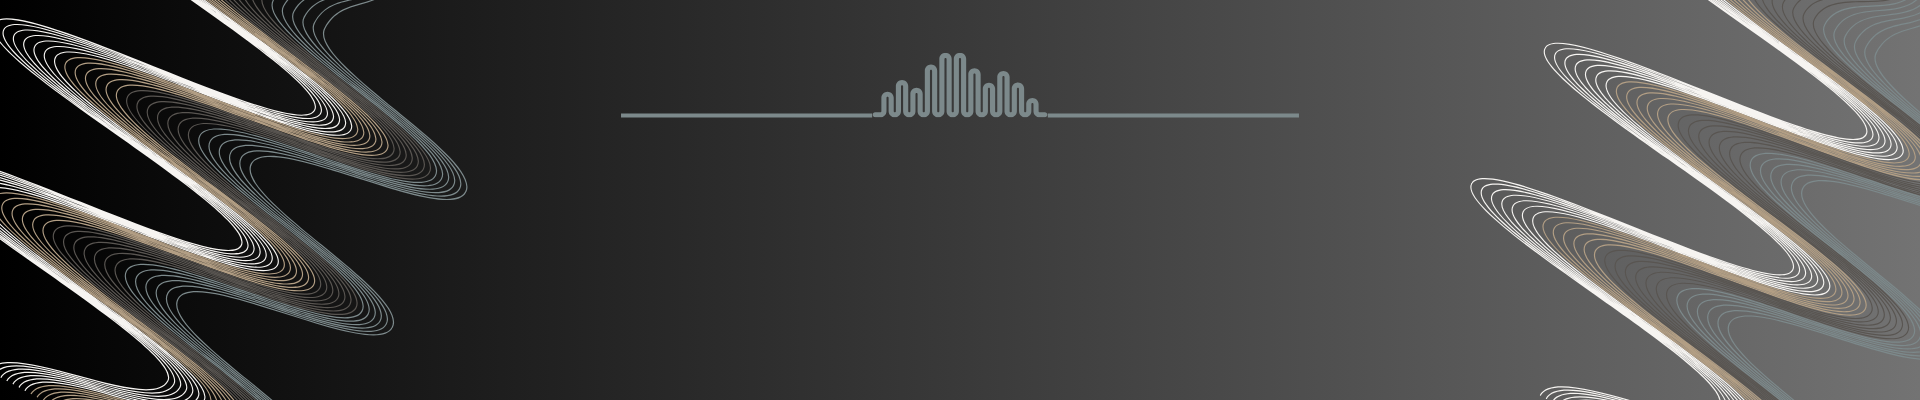
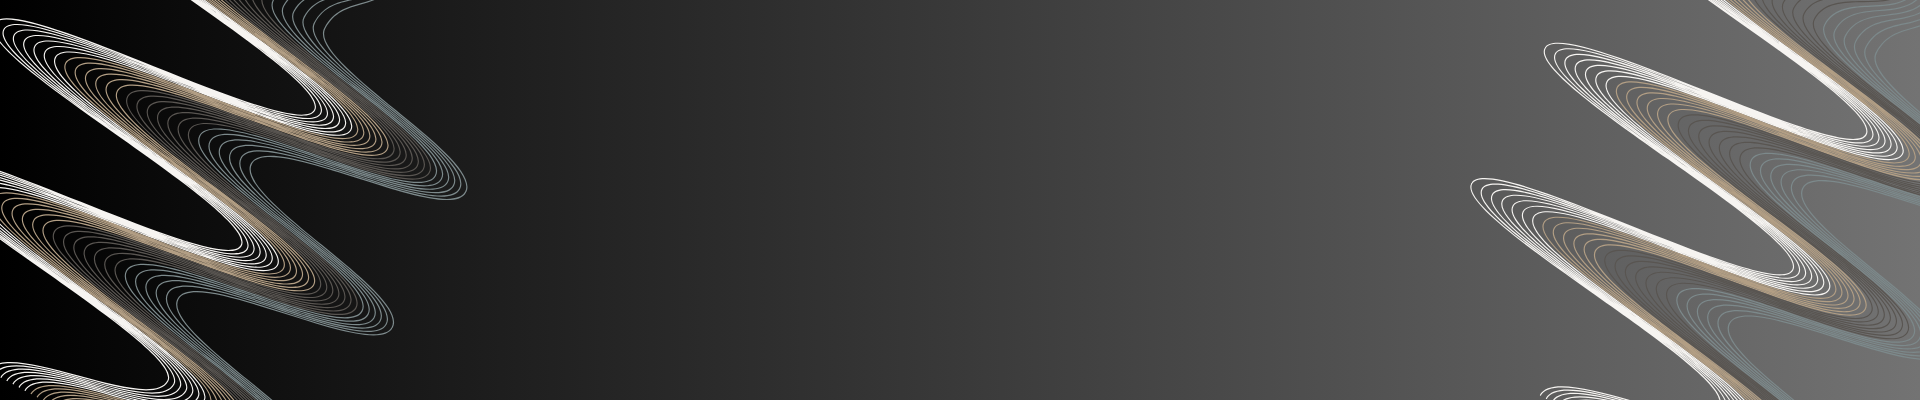
questions shown

Changed region(s): [[0.3125, 0.12, 0.6875, 0.3]]

diff --git a/app/Questions/Questions.tsx b/app/Questions/Questions.tsx
@@ -1,0 +1,153 @@
+"use client";
+import Navbar from "@/components/Navbar";
+import React, { useState } from "react";
+interface Question {
+    isImage: boolean;
+    options: string[];
+    question: string;
+  }
+  
+
+const questions: Question[] = [
+  {
+    isImage: false,
+    options: [
+      "Address the issue immediately and find a fair solution.",
+      "Take time to understand both sides before making a decision.",
+      "Avoid the conflict and hope it resolves itself.",
+      "Delegate the issue to someone else."
+    ],
+    question: "How do you handle conflicts within the team?"
+  },
+  {
+    isImage: false,
+    options: [
+      "Create a detailed schedule and stick to it strictly.",
+      "Tackle the most urgent tasks first and adjust as needed.",
+      "Focus on the tasks that you enjoy the most.",
+      "Delegate tasks to other team members to manage workload."
+    ],
+    question: "How do you prioritize tasks when you have multiple deadlines?"
+  },
+  {
+    isImage: false,
+    options: [
+      "Offer regular praise and recognition.",
+      "Set clear goals and rewards.",
+      "Lead by example and stay positive.",
+      "Provide constructive feedback regularly."
+    ],
+    question: "How do you motivate others in the organization?"
+  },
+  {
+    isImage: false,
+    options: [
+      "Have a private conversation to understand the issue.",
+      "Provide additional resources and support.",
+      "Give them some time to improve on their own.",
+      "Escalate the issue to higher management."
+    ],
+    question: "How do you handle a situation when a team member is underperforming?"
+  },
+  {
+    isImage: false,
+    options: [
+      "Gather all information and analyze before deciding.",
+      "Trust my intuition and experience.",
+      "Consult with team members and stakeholders.",
+      "Delegate the decision to a more experienced person."
+    ],
+    question: "What's your approach to decision-making?"
+  },
+  {
+    isImage: false,
+    options: [
+      "Accept it openly and use it to improve.",
+      "Analyze it critically and take what's relevant.",
+      "Focus more on positive feedback and dismiss negative.",
+      "Take it personally and get discouraged."
+    ],
+    question: "How do you handle feedback, both positive and negative?"
+  },
+  {
+    isImage: true,
+    options: [
+      "Schedule regular meetings and updates.",
+      "Use messaging apps and collaboration tools.",
+      "Make sure everyone is aware of their roles and responsibilities.",
+      "Allow communication to happen naturally without too many rules."
+    ],
+    question: "How do you ensure effective communication within the team?"
+  },
+  {
+    isImage: false,
+    options: [
+      "Stay calm and come up with a new plan.",
+      "Consult with the team to find the best solution.",
+      "Stick to the original plan and hope for the best.",
+      "Panic and look for immediate solutions regardless of long-term effects."
+    ],
+    question: "How do you deal with unexpected challenges or changes in plans?"
+  }
+];
+
+const Questions: React.FC = () => {
+  const [selectedOptions, setSelectedOptions] = useState<{ [key: number]: number }>({});
+
+  const handleOptionClick = (questionIndex: number, optionIndex: number) => {
+    setSelectedOptions((prevSelectedOptions) => ({
+      ...prevSelectedOptions,
+      [questionIndex]: optionIndex,
+    }));
+  };
+
+  return (
+   
+     
+     
+      
+        <div id="text div" className="w-full flex flex-col items-center justify-center mt-10">
+       
+          {questions.map((question, questionIndex) => (
+            <div key={questionIndex} className="mb-10 w-full max-w-2xl px-5">
+              <div className="text-xl font-bold text-black mb-3 text-center">
+                {question.question}
+              </div>
+              <div className="grid grid-cols-2 gap-2">
+                {question.isImage
+                  ? (
+                   
+                    question.options.map((option, optionIndex) => (
+                        <div
+                          key={optionIndex}
+                          className={`p-3 rounded-lg cursor-pointer border-2 border-gray-200 ${selectedOptions[questionIndex] === optionIndex ? 'bg-gray-800 text-white' : 'bg-white text-black'}`}
+                          onClick={() => handleOptionClick(questionIndex, optionIndex)}
+                        >
+                          {option}
+                        </div>
+                      ))
+                    
+                  ) : (
+                    question.options.map((option, optionIndex) => (
+                      <div
+                        key={optionIndex}
+                        className={`p-3 rounded-lg cursor-pointer border-2 shadow-lg border-gray-200 text-center flex items-center justify-center ${selectedOptions[questionIndex] === optionIndex ? 'bg-gray-800 text-white' : 'bg-white text-black'}`}
+                        onClick={() => handleOptionClick(questionIndex, optionIndex)}
+                      >
+                        {option}
+                      </div>
+                    ))
+                  )}
+              </div>
+              <div className="h-10"> </div>
+              <hr />
+            </div>
+          ))}
+          <div className="w-full  flex justify-center ">
+            <button className="text-white bg-gray-700 rounded-lg w-1/3 h-10 flex items-center justify-center">Submit</button></div>
+        </div>
+     
+  );
+};
+
+export default Questions;

diff --git a/app/Questions/page.tsx b/app/Questions/page.tsx
@@ -1,15 +1,78 @@
-import Navber from '@/components/Navbar'
-import React from 'react'
+import Navbar from "@/components/Navbar";
+import React from "react";
+import Questions from "./Questions";
 
-const Questions = () => {
-  return (
-    <div>
-        <Navber />
-        <div className=''>
-            <img src="bg.png" alt="background" className='w-screen '/>
-        </div>
-    </div>
-  )
+interface InstructionDivProps {
+  heading: string;
+  subhead: string;
+  image: string;
 }
 
-export default Questions
+const InstructionDiv: React.FC<InstructionDivProps> = ({ heading, subhead, image }) => {
+  return (
+    <div className="w-80 h-64 flex flex-col justify-center items-center rounded-lg text-white bg-black bg-opacity-20 px-10">
+      <img src={image} alt="Mascaras" className="w-14 h-14 mb-2" />
+      <div className="text-xl font-bold mb-3">
+        {heading}
+      </div>
+      <div className="text-center">
+        {subhead}
+       
+      </div>
+    </div>
+  );
+};
+
+const QuestionsPage: React.FC = () => {
+  return (
+    <div className="w-screen">
+      <Navbar />
+      <div className="w-screen">
+      <div className="relative">
+        <div className="w-screen h-[50vh]">
+          <img
+            src="bg.png"
+            alt="background"
+            className="w-screen h-[50vh] object-cover"
+          />
+        </div>
+
+        <div
+          id="text div"
+          className="absolute top-0 left-0 w-screen h-[50vh] flex items-center justify-center z-10"
+        >
+          <div>
+            <div className="text-4xl font-bold text-center text-white ">
+              Free Personality Test
+            </div>
+            <div className="flex space-x-5 mt-10">
+              <InstructionDiv
+                heading="Complete the Test"
+                subhead="Be yourself and answer honestly to find out your personality type."
+                image="Mascaras.png"
+              />
+               <InstructionDiv
+                heading="View Details Results"
+                subhead="Learn how your personality type influences many areas of your life."
+                image="users.png"
+              />
+               <InstructionDiv
+                heading="Unlock Your Potential"
+                subhead="Grow into the person you want to be with your optional Premium Suite."
+                image="characters.png"
+              />
+            </div>
+           
+          </div>
+        </div>
+      </div>
+      </div>
+      <Questions />
+      
+     
+      
+    </div>
+  );
+};
+
+export default QuestionsPage;

diff --git a/components/Navbar.tsx b/components/Navbar.tsx
@@ -10,7 +10,7 @@ const Navber = () => {
               width={100} height={20} alt="logo" className="rounded-xl ml-2"
               priority
             />
-            <div className="space-x-14 flex items-center text-gray-700">
+            <div className="lg:space-x-14 space-x-5 flex items-center text-gray-700">
                 <div>Group</div>
                 <div>Code</div>
                 <div>Specialized Tests</div>
